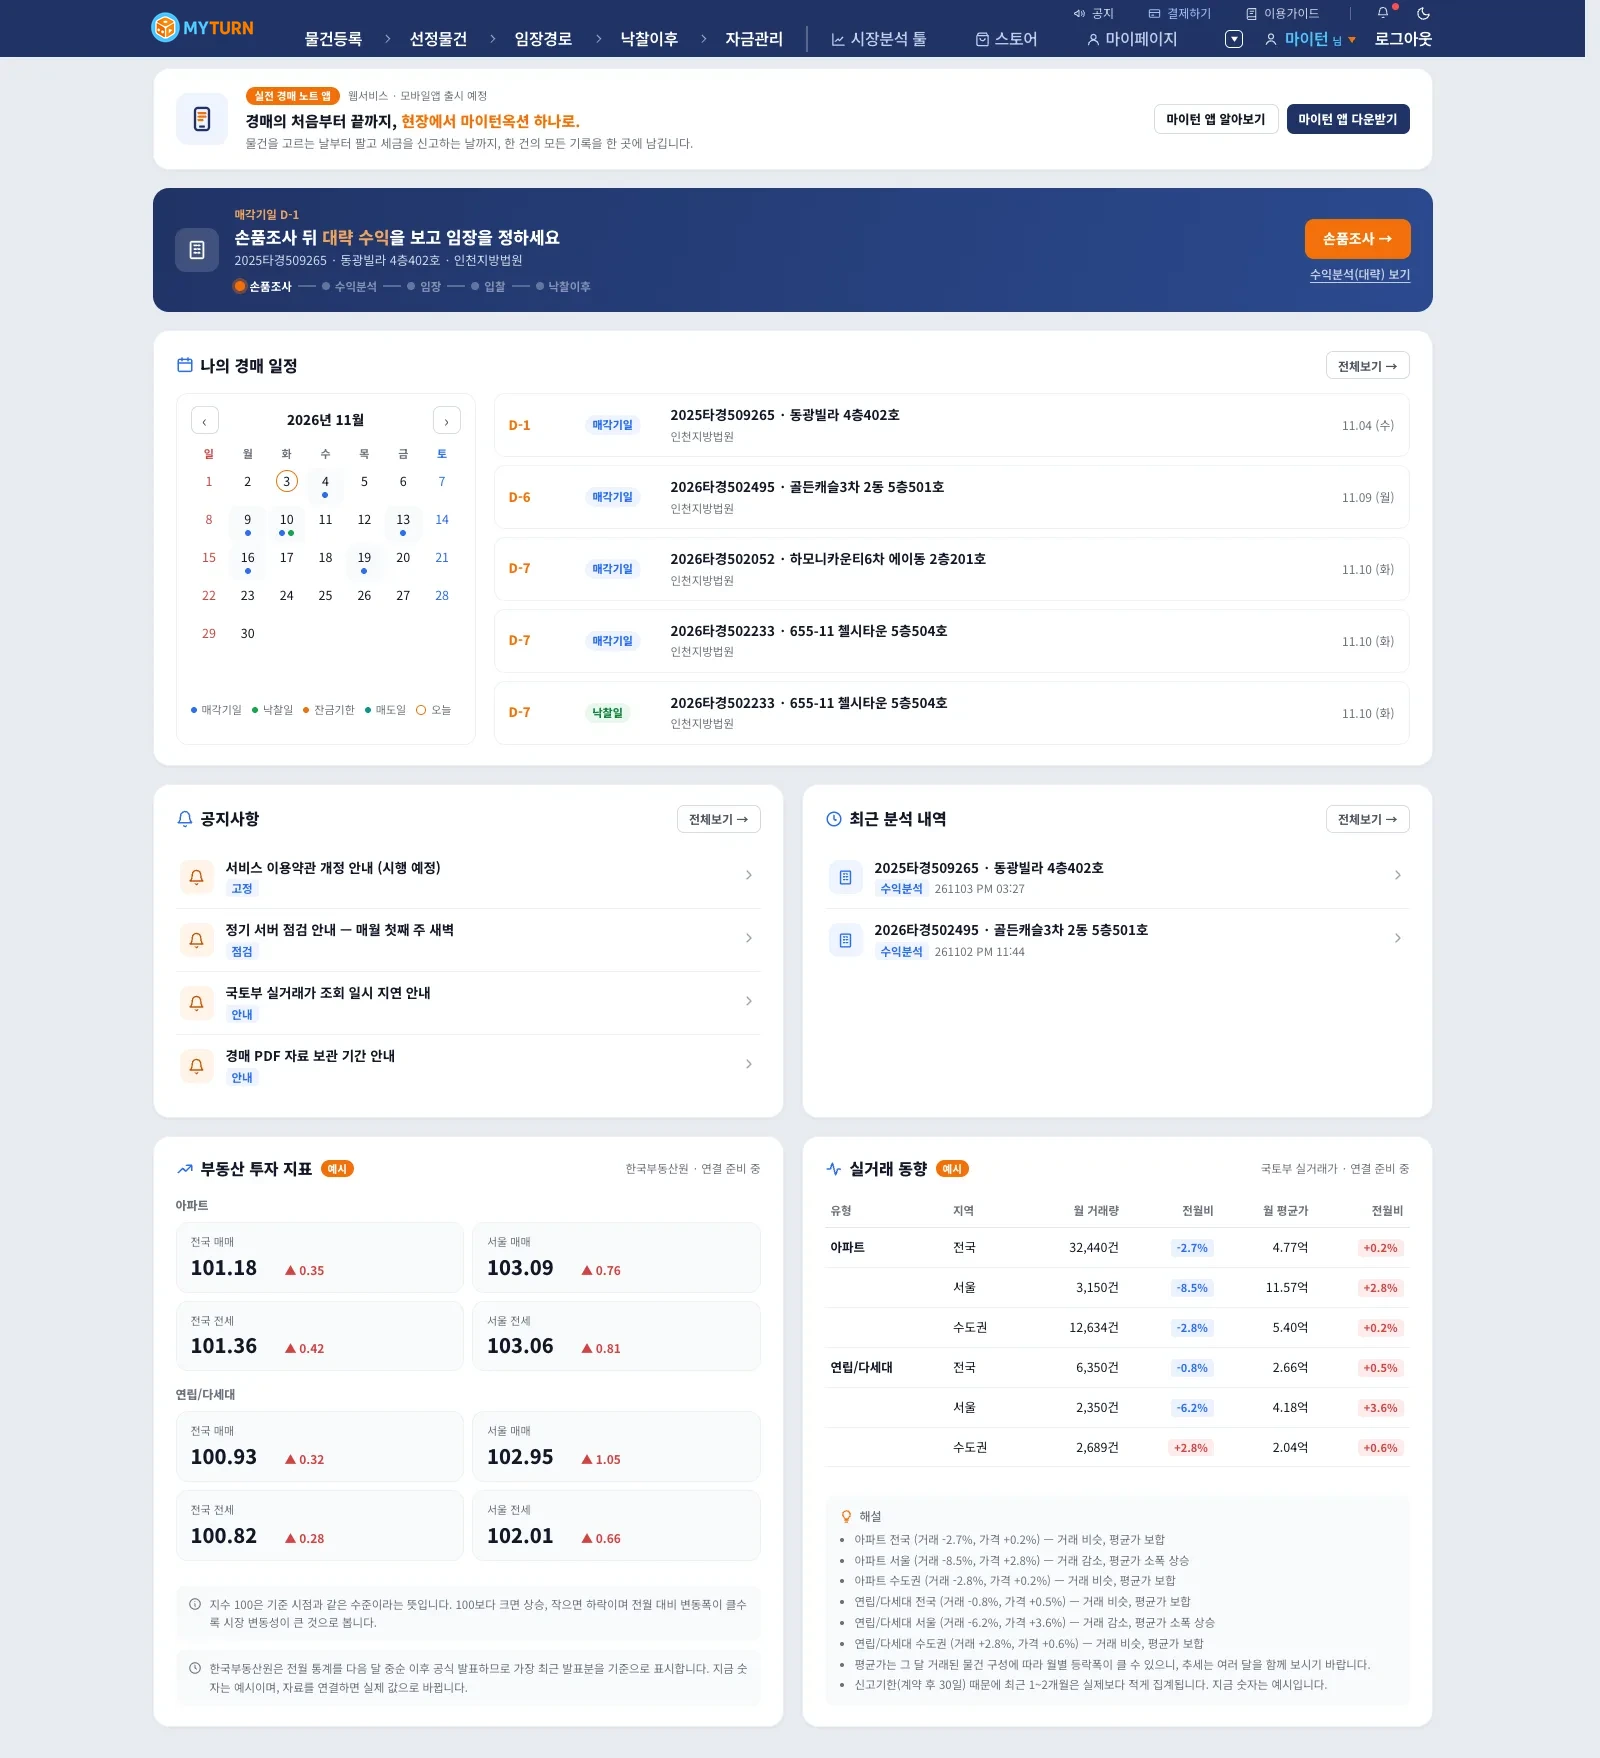
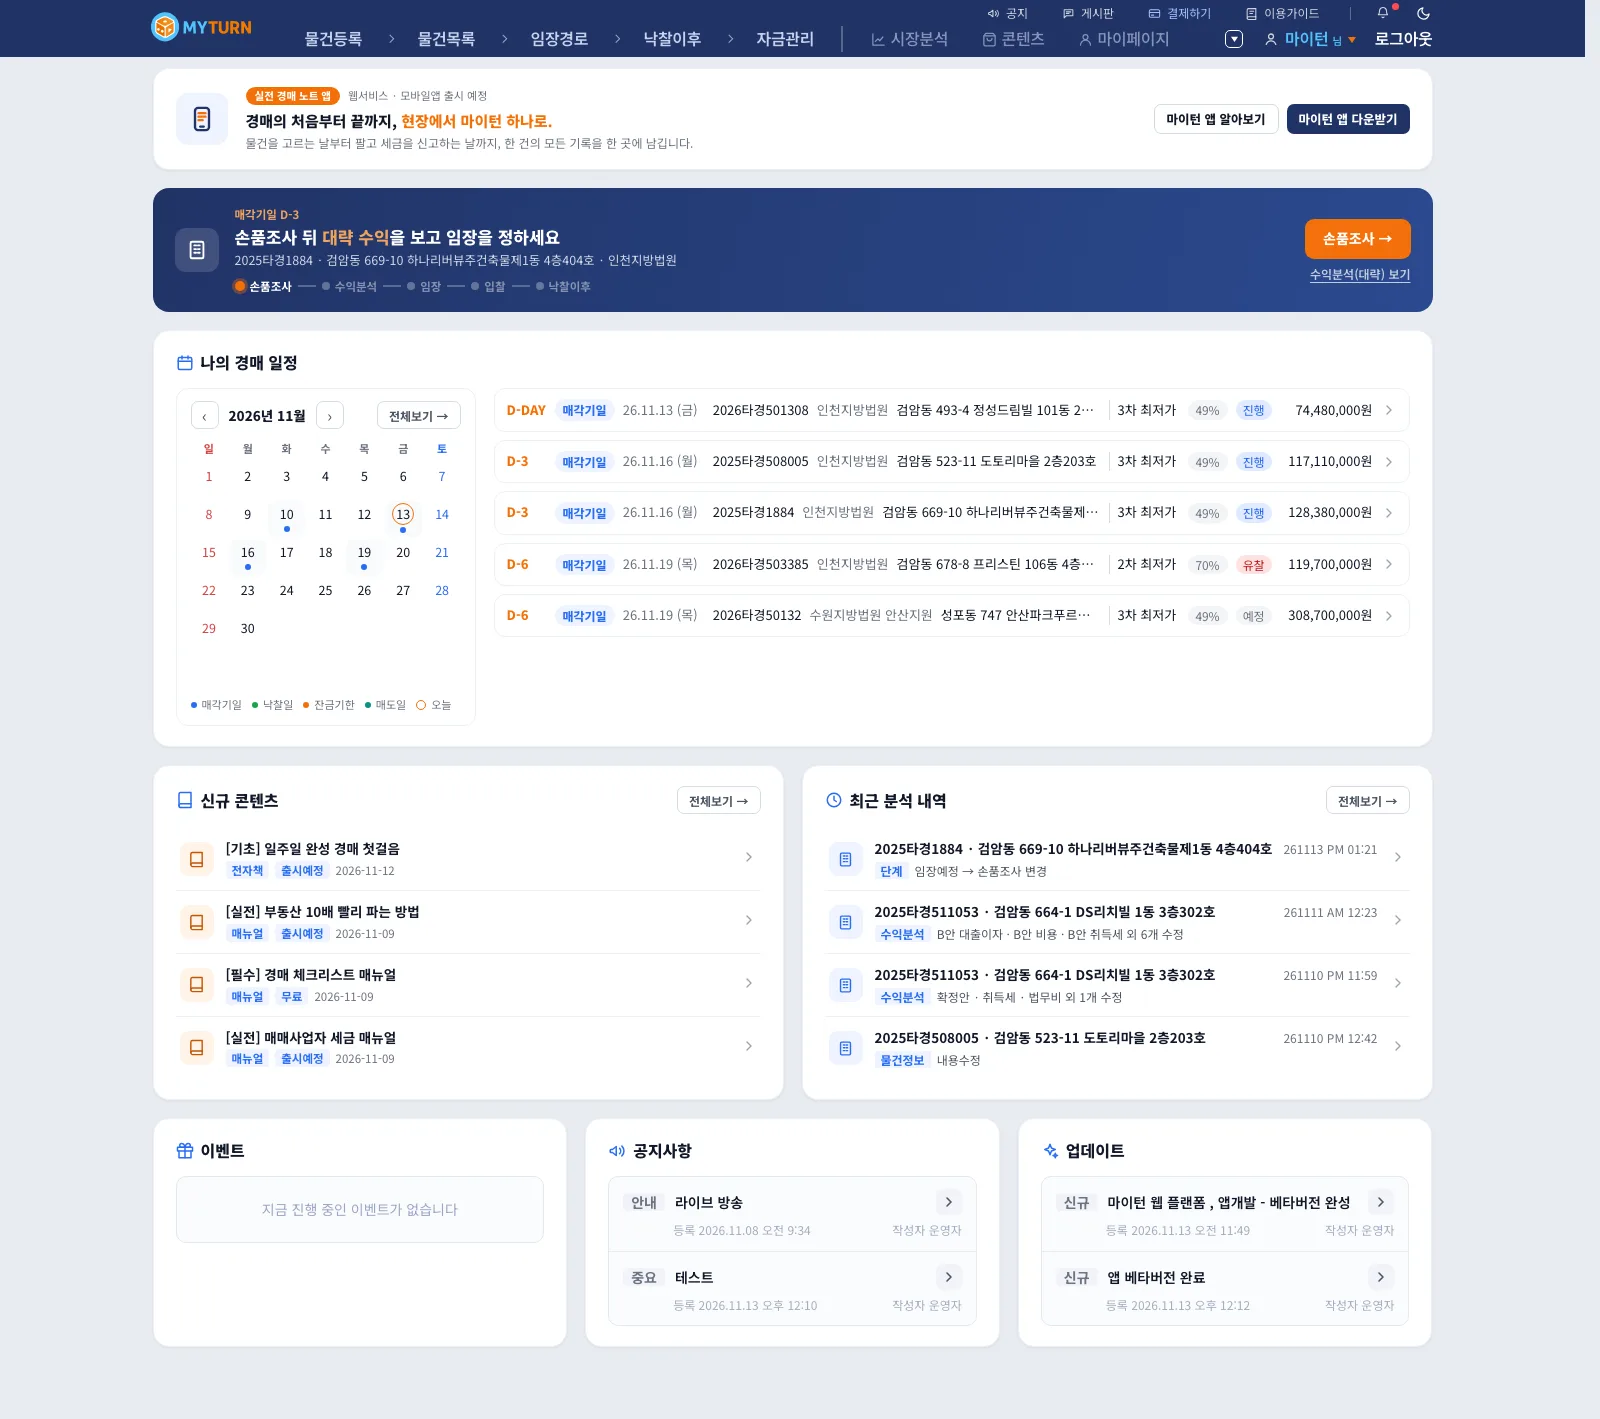
이용가이드 v1.6.2 — 웹 홈 그림 새로 찍고 번호 9개(신규 콘텐츠 · 이벤트 · 공지사항 · 업데이트, 투자 지표 · 실거래 동향 뺌), 공지 설명(세 상자 · 제목 · 등록 · 작성자 · 눌러서 창), 게시판 긴 글 줄바꿈. 운영자 화면은 넣지 않음

diff --git a/public/guide/index.html b/public/guide/index.html
@@ -1506,6 +1506,37 @@ GUIDE.release({
     if (ch) { ch.clip = 'clip/layout.html'; ch.len = '1:41'; }
   },
 });
+/* v1.6.2 — 2026.11.13 웹 홈(신규 콘텐츠 · 이벤트 · 공지사항 · 업데이트 세 상자, 투자 지표 · 실거래 동향 뺌), 공지 화면(제목 · 등록 · 작성자, 눌러서 창으로 본문), 게시판 긴 글 줄바꿈.
+   운영자 화면(운영 · 손품결론 · 매각분석)은 넣지 않는다. 바뀐 곳만 patch */
+GUIDE.release({
+  v: '1.6.2', date: '2026-11-13', base: '1.6.1', title: '홈 신규 콘텐츠 · 공지 세 상자',
+  notes: [
+    '홈 — 공지사항 자리에 「신규 콘텐츠」(새로 올린 전자책 · 리포트 · 매뉴얼 넷, 누르면 자세히보기). 맨 아래에 이벤트 · 공지사항 · 업데이트 세 상자가 붙었습니다. 부동산 투자 지표 · 실거래 동향은 홈에서 뺐습니다',
+    '공지 — 이벤트 · 공지사항 · 업데이트를 세 상자로 나눴습니다. 줄마다 제목 · 등록 시각 · 작성자가 보이고, 누르면 창이 열려 본문 · 그림 전체를 봅니다',
+    '게시판 — 띄어쓰기 없이 긴 글도 상자 안에서 줄을 바꿉니다',
+  ],
+  patch(c) {
+    const page = (aid) => c.sections.find((s) => s.id === 'pages').subs.find((x) => x.aid === aid);
+    /* 홈 — 그림을 새로 찍고 번호 · 설명을 지금 상자 순서대로 */
+    c.shots.home = { src: 'shot-home.webp?v=4', w: 1600, h: 1419, url: 'terryauction-6b374.web.app/web#/', alt: '로그인 후 대문 — 다음 할 일, 나의 경매 일정, 신규 콘텐츠, 최근 분석 내역, 이벤트 · 공지사항 · 업데이트' };
+    const hs = page('help-home').blocks.find((b) => b.t === 'shot');
+    if (hs) {
+      hs.pins = [[7, 8.4], [7, 17.6], [7, 38], [30.2, 38], [7, 65.7], [50.5, 65.7], [7, 86.8], [37, 86.8], [64.1, 86.8]];
+      hs.legend = [
+        hs.legend[0], hs.legend[1], hs.legend[2], hs.legend[3],
+        ['신규 콘텐츠', '콘텐츠에 새로 올린 전자책 · 리포트 · 매뉴얼을 최근 것부터 넷. 누르면 그 콘텐츠의 자세히보기가 열리고, 전체보기는 콘텐츠 화면으로 갑니다.'],
+        hs.legend[5],
+        ['이벤트', '진행 중인 이벤트. 없으면 상자 안에 안내가 보입니다.'],
+        ['공지사항', '서비스 공지 · 점검 · 안내. 줄마다 제목 · 등록 시각 · 작성자, 누르면 창이 열려 본문 전체를 봅니다.'],
+        ['업데이트', '새로 바뀐 기능 소식. 공지사항과 같은 꼴입니다.'],
+      ];
+    }
+    /* 공지 · 게시판 — 공지 줄 설명 */
+    const cs = page('help-community').blocks.find((b) => b.t === 'shot');
+    const nt = cs && cs.legend.find((x) => x[0] === '공지');
+    if (nt) nt[1] = '이벤트 · 공지사항 · 업데이트 세 상자. 줄마다 제목 · 등록 시각 · 작성자가 보이고, 누르면 창이 열려 본문 · 그림 전체를 봅니다(그림은 눌러 크게). 홈 아래쪽에도 같은 세 상자가 있습니다.';
+  },
+});
 /* 다음 버전 예시 — 바뀐 곳만 patch 에서 고친다
 GUIDE.release({
   v: '1.1.0', date: '2026-12-01', base: '1.0.0', title: '앱 출시 반영',
